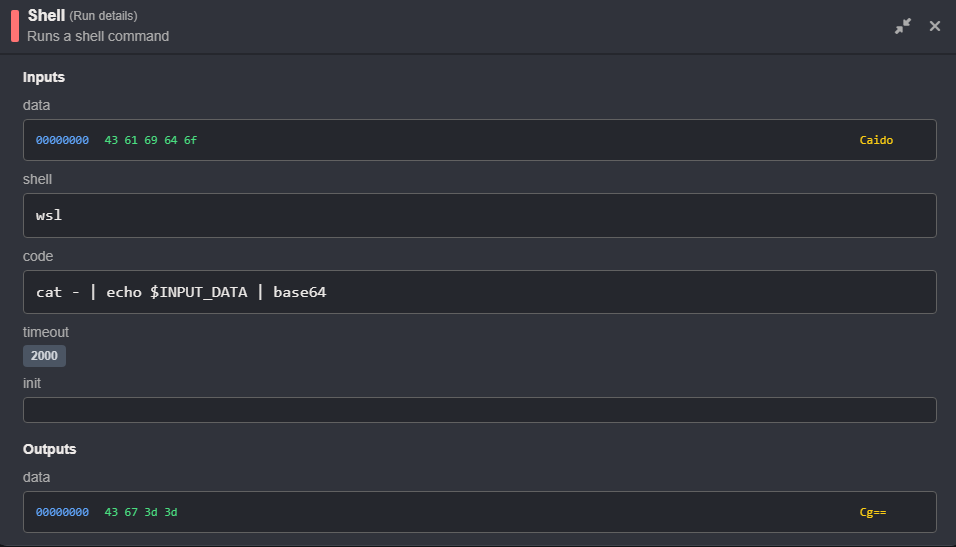
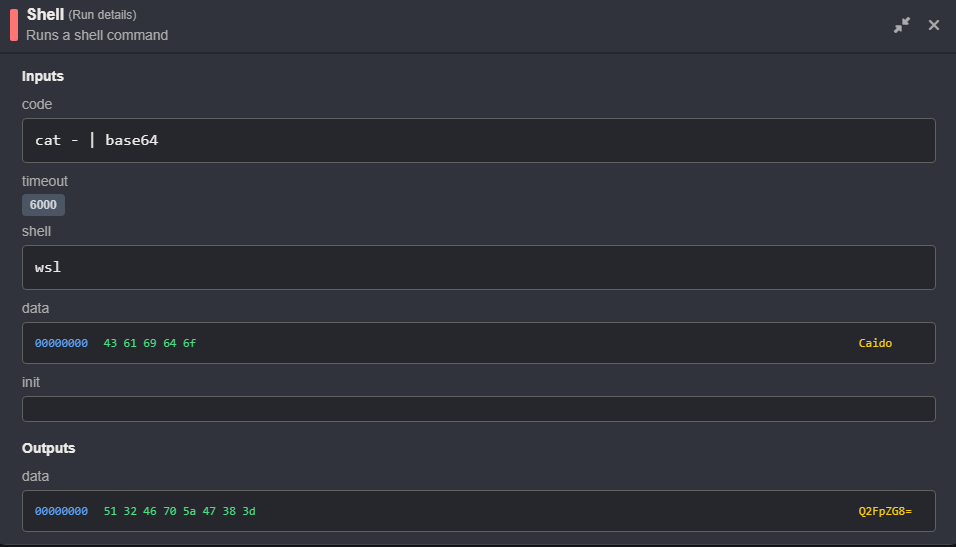
Ready for review.

diff --git a/src/guides/workflows_shell.md b/src/guides/workflows_shell.md
@@ -8,10 +8,18 @@ To select the terminal to use, **click** on the drop-down menu in the `Shell (ch
 
 <img alt="The terminal selection list." src="/_images/workflows_shell_choice.png" center>
 
+::: tip
+Use `echo $SHELL` to determine the appropriate selection.
+:::
+
 The Shell node editor provides two coding environments:
 
 - `Code (code)`: The runtime commands/script with access to Caido provided data.
-- `Init (code)`: The optional initialization commands/script to execute before runtime.
+- `Init (code)`: The optional initialization commands/script to execute before runtime (_such as creating nonexistent directories to save files to_).
+
+::: warning NOTE
+By default, `Init (code)` sources from configuration files (`.bashrc`/`.zshrc`) to provide custom PATH variables and aliases.
+:::
 
 <img alt="The Shell node editor." src="/_images/workflows_shell_node_editor_top.png" center>
 
@@ -23,7 +31,7 @@ The Shell node editor provides two coding environments:
 
 The data made available to your terminal can either be:
 
-- `INPUT_DATA`: The input data for convert workflows.
+- The input data for convert workflows.
 - Environment variables or Base64 encoded request and response JSON object properties for passive/active workflows.
 
 ::: tip
@@ -46,19 +54,39 @@ The details of each run will be listed in the `View` drop-down menu. To view the
 
 ## Convert Workflows
 
-To convert data, run terminal commands/scripts against `$INPUT_DATA`.
+To convert data, run terminal commands/scripts against the input data.
+
+<img alt="The input field." src="/_images/workflows_shell_convert_input.png" center>
+
+### Base64 Encoding
 
 ::: code-group
-```bash [Base64 Encode]
-cat - | echo $INPUT_DATA | base64
+```cmd [cmd]
+powershell -Command "$data = [Console]::In.ReadToEnd(); [Convert]::ToBase64String([Text.Encoding]::UTF8.GetBytes($data.TrimEnd()))"
+```
+
+```powershell [powershell]
+$data = [Console]::In.ReadToEnd(); [Convert]::ToBase64String([Text.Encoding]::UTF8.GetBytes($data.TrimEnd()))
+```
+
+```sh [sh]
+cat - | base64
+```
+
+```zsh [zsh]
+cat - | base64
+```
+
+```bash [bash]
+cat - | base64
+```
+
+```wsl [wsl]
+cat - | base64
 ```
 :::
 
 <img alt="Base64 encoding." src="/_images/workflows_shell_convert.png" center>
-
-cmd: `powershell -Command "[Convert]::ToBase64String([Text.Encoding]::UTF8.GetBytes('%INPUT_DATA%'))"`
-
-PowerShell: `[Convert]::ToBase64String([Text.Encoding]::UTF8.GetBytes($env:INPUT_DATA))`
 
 ## Passive/Active Workflows
 
@@ -66,7 +94,7 @@ PowerShell: `[Convert]::ToBase64String([Text.Encoding]::UTF8.GetBytes($env:INPUT
 
 Request URLs, headers, and the working project name are available via environment variables.
 
-#### Command Prompt (cmd)
+#### cmd
 
 ::: code-group
 ``` cmd [URL to File]
@@ -86,7 +114,7 @@ set | findstr "CAIDO_REQUEST_HEADER__" > %USERPROFILE%\headers.txt
 ```
 
 ``` cmd [Running a Tool Against a Domain]
-nslookup %CAIDO_REQUEST_HEADER__HOST% > %USERPROFILE%\nslookup.txt
+nslookup %CAIDO_REQUEST_HEADER__HOST% > "%USERPROFILE%\nslookup.txt" 2>&1
 ```
 
 ``` cmd [Enumerating Subdomains]
@@ -94,7 +122,7 @@ nslookup %CAIDO_REQUEST_HEADER__HOST% > %USERPROFILE%\nslookup.txt
 ```
 :::
 
-#### PowerShell
+#### powershell
 
 ::: warning NOTE
 The `&` call operator is required for paths that contain spaces.
@@ -130,7 +158,7 @@ nslookup $env:CAIDO_REQUEST_HEADER__HOST | Out-File -FilePath "$HOME\nslookup.tx
 ```
 
 ``` powershell [Enumerating Subdomains]
-"$HOME\go\bin\subfinder.exe" -d $env:CAIDO_REQUEST_HEADER__HOST -o "$HOME\subs.txt"
+& "$HOME\go\bin\subfinder.exe" -d $env:CAIDO_REQUEST_HEADER__HOST -o "$HOME\subs.txt"
 ```
 :::
 
@@ -150,16 +178,27 @@ echo "$CAIDO_REQUEST_HEADER__HOST" > ~/host.txt
 ```
 
 ``` zsh [All Headers to File]
-env | grep "^CAIDO_REQUEST_HEADER__" > ~/headers.txt
+env | while IFS='=' read -r name value; do
+  if [[ "$name" == CAIDO_REQUEST_HEADER__* ]]; then
+    echo "$name=$value"
+  fi
+done > ~/Desktop/formatted-headers.txt
 ```
 
 ``` zsh [All Headers to File Formatted]
+title_case() {  echo "$1" | awk -F'-' '{
+    for(i=1; i<=NF; i++) {
+      $i = toupper(substr($i,1,1)) tolower(substr($i,2))
+    }
+    print $0
+  }' | tr ' ' '-'
+}
+
 env | grep "^CAIDO_REQUEST_HEADER__" | while IFS='=' read -r name value; do
-  header="${name#CAIDO_REQUEST_HEADER__}"
-  header="${header//_/-}"
-  header=$(echo "$header" | tr '[:upper:]' '[:lower:]' | sed 's/\b\(.\)/\U\1/g')
-  echo "$header: $value"
-done > ~/formatted-headers.txt
+  header=$(echo "$name" | sed 's/^CAIDO_REQUEST_HEADER__//' | tr '_' '-' | tr '[:upper:]' '[:lower:]')
+  formatted_header=$(title_case "$header")
+  echo "$formatted_header: $value"
+done > ~/Desktop/formatted-headers.txt
 ```
 
 ``` zsh [Running a Tool Against a Domain]
@@ -187,14 +226,27 @@ echo "$CAIDO_REQUEST_HEADER__HOST" > ~/host.txt
 ```
 
 ``` sh [All Headers to File]
-set | grep "^CAIDO_REQUEST_HEADER__" > ~/headers.txt
+env | grep "^CAIDO_REQUEST_HEADER__" > ~/headers.txt
 ```
 
 ``` sh [All Headers to File Formatted]
+title_case() {  echo "$1" | awk -F'-' '{
+    for(i=1; i<=NF; i++) {
+      $i = toupper(substr($i,1,1)) tolower(substr($i,2))
+    }
+    print $0
+  }' | tr ' ' '-'
+}
+
 env | grep "^CAIDO_REQUEST_HEADER__" | while IFS='=' read -r name value; do
-  header=$(echo "$name" | sed 's/^CAIDO_REQUEST_HEADER__//' | tr '_' '-' | tr '[:upper:]' '[:lower:]')
-  echo "$header: $value"
-done > ~/formatted-headers.txt
+  case "$name" in
+    CAIDO_REQUEST_HEADER__*)
+      header=$(echo "$name" | sed 's/^CAIDO_REQUEST_HEADER__//' | tr '_' '-' | tr '[:upper:]' '[:lower:]')
+      formatted_header=$(title_case "$header")
+      echo "$formatted_header: $value"
+      ;;
+  esac
+done > ~/Desktop/formatted-headers.txt
 ```
 
 ``` sh [Running a Tool Against a Domain]
@@ -254,17 +306,38 @@ Raw requests and responses are available as a JSON object via STDIN.
 <img alt="Request and response from Active Start node." src="/_images/workflows_shell_stdin_active.png" center>
 
 ::: warning NOTE
-Request and response data is Base64 encoded.
+The `request` and `response` JSON parameter data is Base64 encoded.
 
-For **bash/zsh/sh**, install `jq` to parse JSON:
-``` bash
-sudo apt install jq
-```
-
-For **PowerShell**, use the built-in `ConvertFrom-Json` cmdlet (_no installation needed_).
+- For **cmd**, use `powershell -Command` to execute PowerShell commands.
+- For **powershell**, use the built-in `ConvertFrom-Json` cmdlet (_no installation needed_).
+- For **bash/zsh/sh/wsl**, [install jq](https://jqlang.org/download/) to parse JSON.
 :::
 
-#### PowerShell
+#### cmd
+
+::: code-group
+``` cmd [Request to File]
+powershell -Command "$json = [Console]::In.ReadToEnd() | ConvertFrom-Json; [System.Text.Encoding]::UTF8.GetString([System.Convert]::FromBase64String($json.request)) | Out-File -FilePath \"$env:USERPROFILE\request.txt\""
+```
+
+``` cmd [Request Headers to File]
+powershell -Command "$json = [Console]::In.ReadToEnd() | ConvertFrom-Json; $decoded = [System.Text.Encoding]::UTF8.GetString([System.Convert]::FromBase64String($json.request)); $lines = $decoded -split \"`r`n\"; $lines[1..($lines.IndexOf('')-1)] | Out-File -FilePath \"$env:USERPROFILE\request-headers.txt\""
+```
+
+``` cmd [Response to File]
+powershell -Command "$json = [Console]::In.ReadToEnd() | ConvertFrom-Json; [System.Text.Encoding]::UTF8.GetString([System.Convert]::FromBase64String($json.response)) | Out-File -FilePath \"$env:USERPROFILE\response.txt\""
+```
+
+``` cmd [Response Headers to File]
+powershell -Command "$json = [Console]::In.ReadToEnd() | ConvertFrom-Json; $decoded = [System.Text.Encoding]::UTF8.GetString([System.Convert]::FromBase64String($json.response)); $lines = $decoded -split \"`r`n\"; $lines[1..($lines.IndexOf('')-1)] | Out-File -FilePath \"$env:USERPROFILE\response-headers.txt\""
+```
+
+``` cmd [Response Body to File]
+powershell -Command "$json = [Console]::In.ReadToEnd() | ConvertFrom-Json; $decoded = [System.Text.Encoding]::UTF8.GetString([System.Convert]::FromBase64String($json.response)); $bodyStart = $decoded.IndexOf(\"`r`n`r`n\") + 4; $body = $decoded.Substring($bodyStart); $body | Out-File -FilePath \"$env:USERPROFILE\response-body.txt\""
+```
+:::
+
+#### powershell
 
 ::: code-group
 ``` powershell [Request to File]
@@ -300,30 +373,6 @@ $body | Out-File -FilePath "$HOME\response-body.txt"
 ```
 :::
 
-#### zsh
-
-::: code-group
-``` zsh [Request to File]
-cat - | jq -r .request | base64 -d > ~/request.txt
-```
-
-``` zsh [Request Headers to File]
-cat - | jq -r .request | base64 -d | sed -n '2,/^\r$/p' | sed '/^\r$/d' > ~/request-headers.txt
-```
-
-``` zsh [Response to File]
-cat - | jq -r .response | base64 -d > ~/response.txt
-```
-
-``` zsh [Response Headers to File]
-cat - | jq -r .response | base64 -d | sed -n '2,/^\r$/p' | sed '/^\r$/d' > ~/response-headers.txt
-```
-
-``` zsh [Response Body to File]
-cat - | jq -r .response | base64 -d | sed '1,/^\r$/d' > ~/response-body.txt
-```
-:::
-
 #### sh
 
 ::: code-group
@@ -348,7 +397,54 @@ cat - | jq -r .response | base64 -d | sed -n '2,/^\r$/p' | sed '/^\r$/d' > ~/res
 ```
 :::
 
+#### zsh
+
+::: code-group
+``` zsh [Request to File]
+cat - | jq -r .request | base64 -d > ~/request.txt
+```
+
+``` zsh [Request Headers to File]
+cat - | jq -r .request | base64 -d | sed -n '2,/^\r$/p' | sed '/^\r$/d' > ~/request-headers.txt
+```
+
+``` zsh [Response to File]
+cat - | jq -r .response | base64 -d > ~/response.txt
+```
+
+``` zsh [Response Headers to File]
+cat - | jq -r .response | base64 -d | sed -n '2,/^\r$/p' | sed '/^\r$/d' > ~/response-headers.txt
+```
+
+``` zsh [Response Body to File]
+cat - | jq -r .response | base64 -d | sed '1,/^\r$/d' > ~/response-body.txt
+```
+:::
+
 #### bash
+
+::: code-group
+``` bash [Request to File]
+cat - | jq -r .request | base64 -d > ~/request.txt
+```
+
+``` bash [Request Headers to File]
+cat - | jq -r .request | base64 -d | sed -n '2,/^\r$/p' | sed '/^\r$/d' > ~/request-headers.txt
+```
+
+``` bash [Response to File]
+cat - | jq -r .response | base64 -d > ~/response.txt
+```
+
+``` bash [Response Headers to File]
+cat - | jq -r .response | base64 -d | sed -n '2,/^\r$/p' | sed '/^\r$/d' > ~/response-headers.txt
+```
+
+``` bash [Response Body to File]
+cat - | jq -r .response | base64 -d | sed '1,/^\r$/d' > ~/response-body.txt
+```
+
+#### wsl
 
 ::: code-group
 ``` bash [Request to File]
